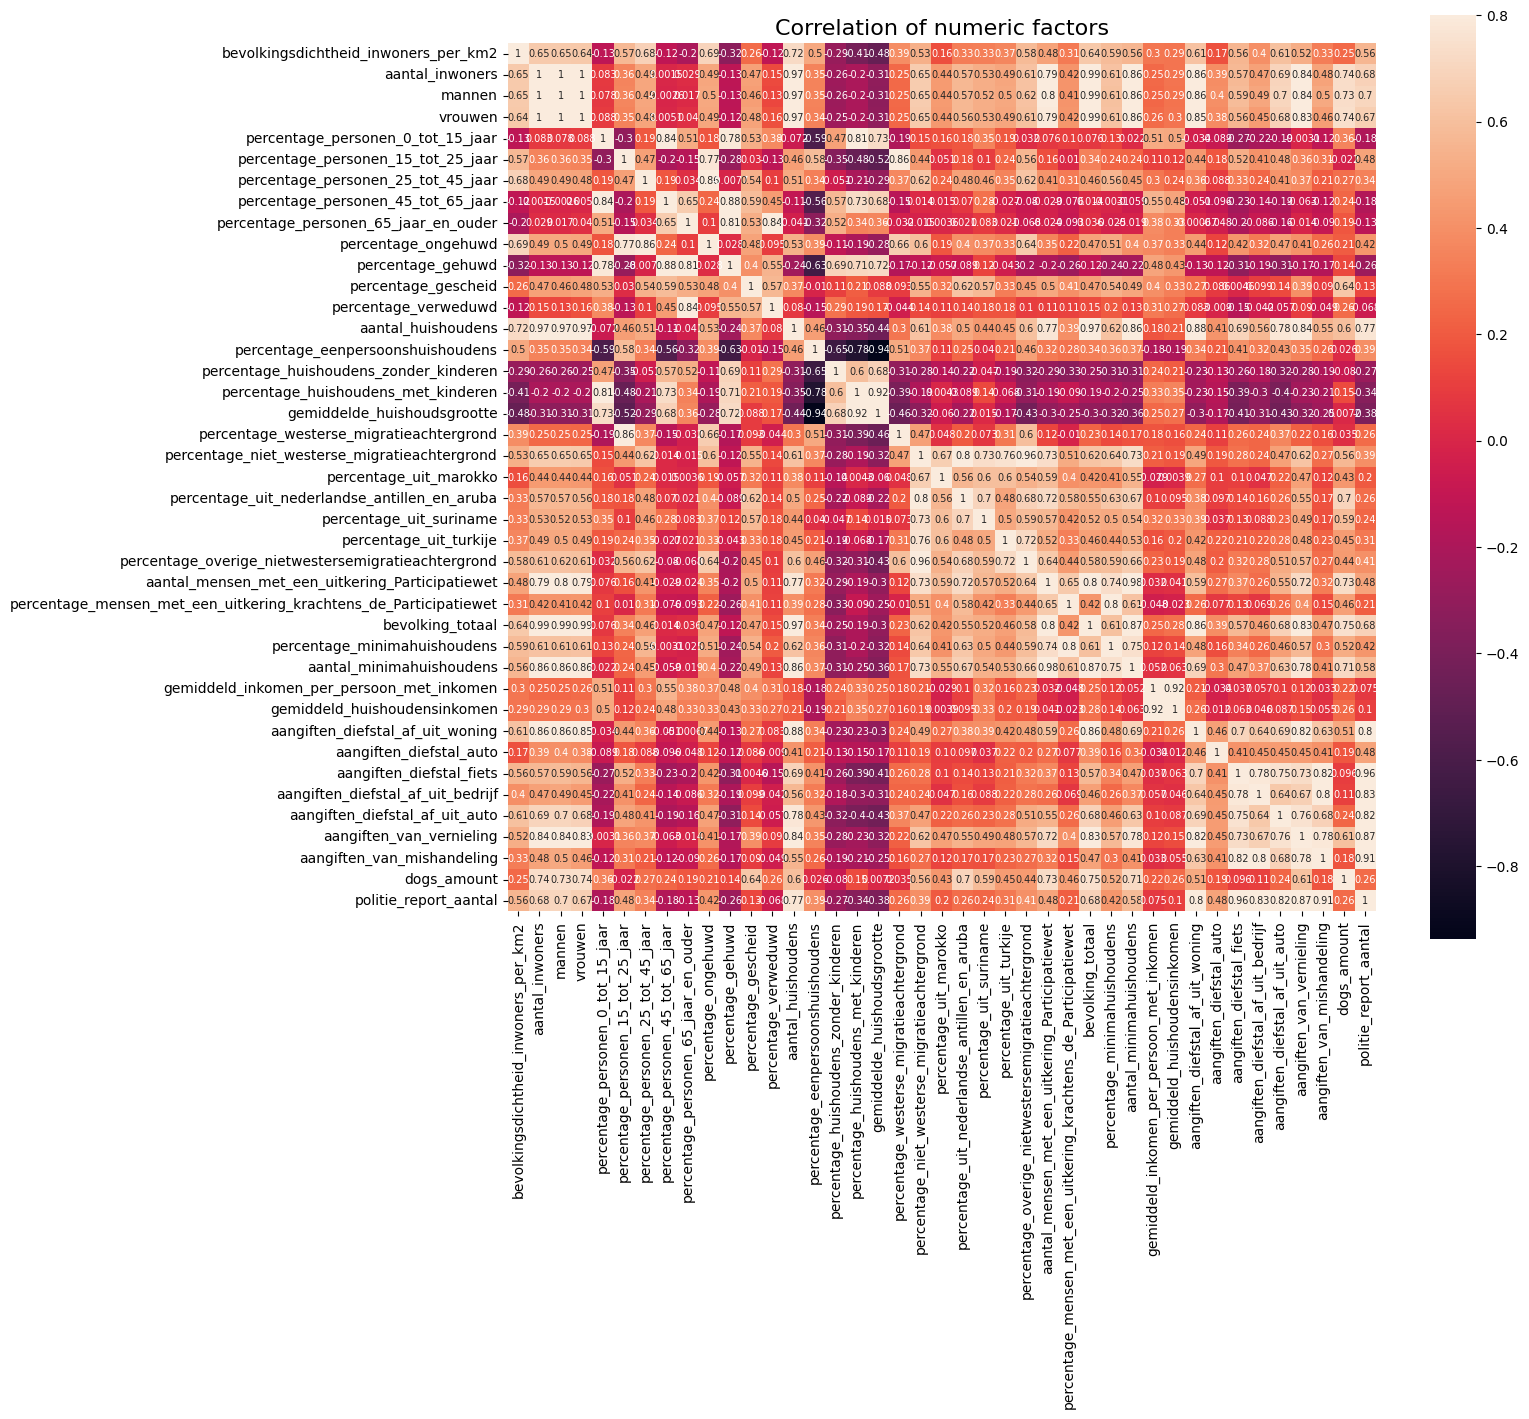
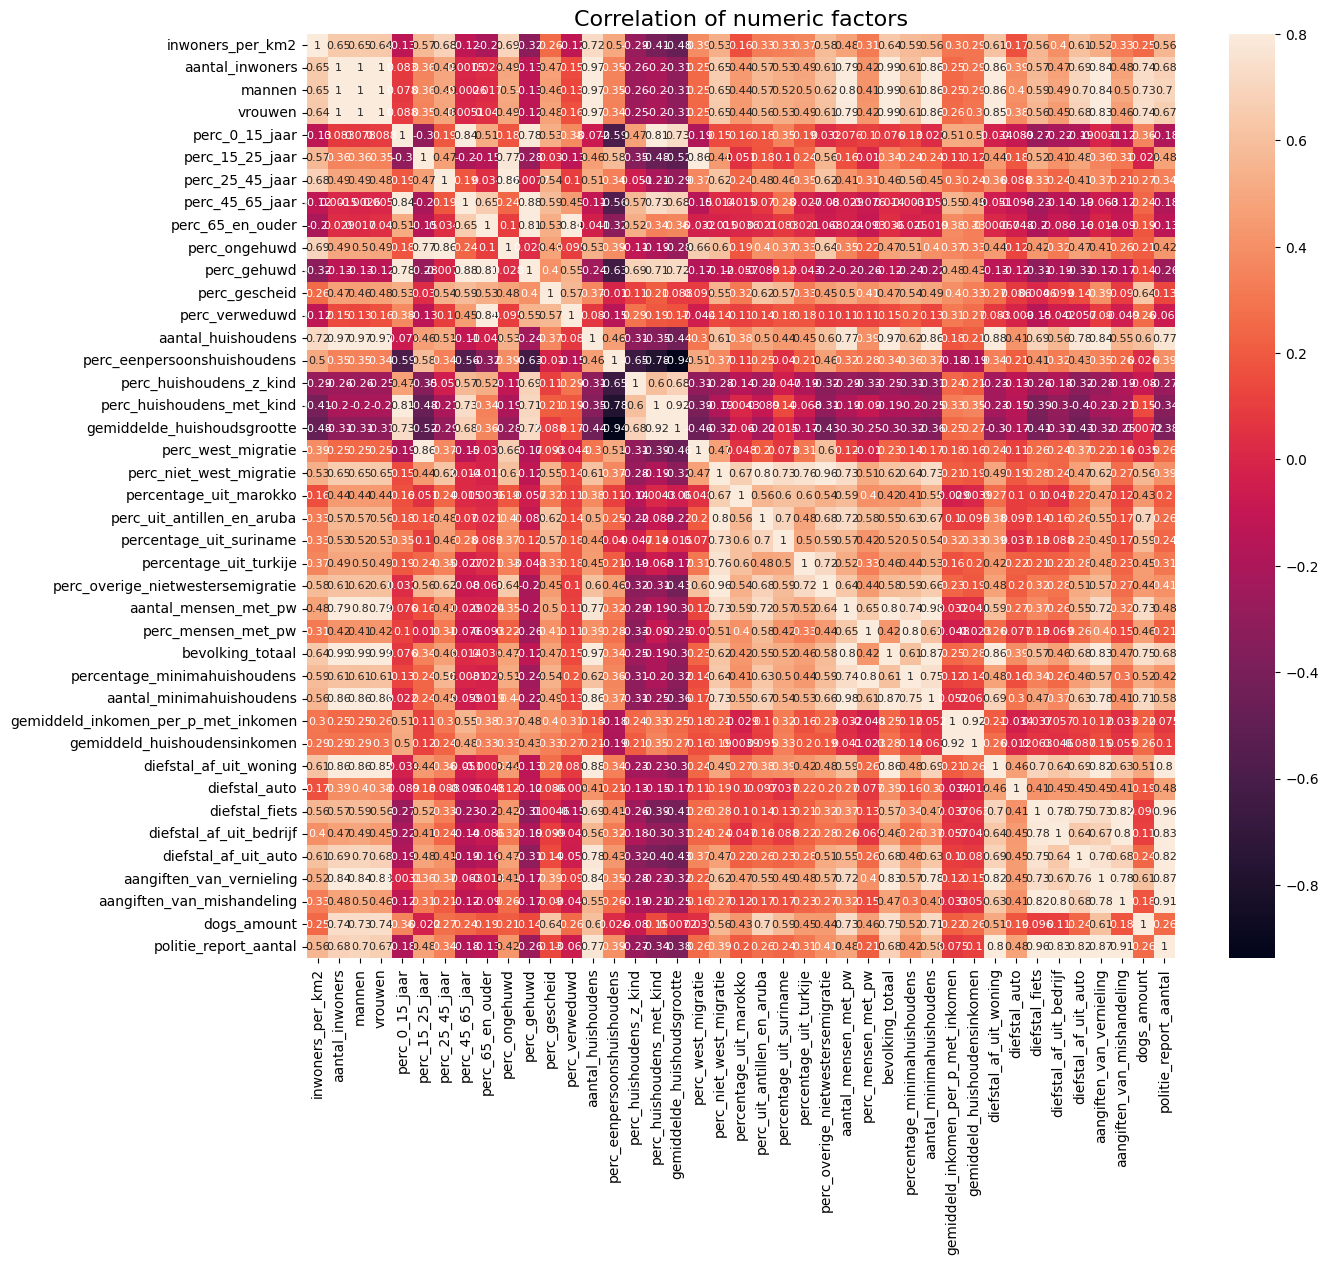
changed dogs groningen analysis

diff --git a/Groningen_dogs/dogs_eda_groningen.md b/Groningen_dogs/dogs_eda_groningen.md
@@ -21,30 +21,21 @@ print(data.columns)
 data.head()
 ```
 
-    Index(['buurtcode', 'buurtnaam', 'wijkcode',
-           'bevolkingsdichtheid_inwoners_per_km2', 'aantal_inwoners', 'mannen',
-           'vrouwen', 'percentage_personen_0_tot_15_jaar',
-           'percentage_personen_15_tot_25_jaar',
-           'percentage_personen_25_tot_45_jaar',
-           'percentage_personen_45_tot_65_jaar',
-           'percentage_personen_65_jaar_en_ouder', 'percentage_ongehuwd',
-           'percentage_gehuwd', 'percentage_gescheid', 'percentage_verweduwd',
-           'aantal_huishoudens', 'percentage_eenpersoonshuishoudens',
-           'percentage_huishoudens_zonder_kinderen',
-           'percentage_huishoudens_met_kinderen', 'gemiddelde_huishoudsgrootte',
-           'percentage_westerse_migratieachtergrond',
-           'percentage_niet_westerse_migratieachtergrond',
-           'percentage_uit_marokko',
-           'percentage_uit_nederlandse_antillen_en_aruba',
-           'percentage_uit_suriname', 'percentage_uit_turkije',
-           'percentage_overige_nietwestersemigratieachtergrond',
-           'aantal_mensen_met_een_uitkering_Participatiewet',
-           'percentage_mensen_met_een_uitkering_krachtens_de_Participatiewet',
-           'bevolking_totaal', 'percentage_minimahuishoudens',
-           'aantal_minimahuishoudens', 'gemiddeld_inkomen_per_persoon_met_inkomen',
-           'gemiddeld_huishoudensinkomen', 'aangiften_diefstal_af_uit_woning',
-           'aangiften_diefstal_auto', 'aangiften_diefstal_fiets',
-           'aangiften_diefstal_af_uit_bedrijf', 'aangiften_diefstal_af_uit_auto',
+    Index(['buurtcode', 'buurtnaam', 'wijkcode', 'inwoners_per_km2',
+           'aantal_inwoners', 'mannen', 'vrouwen', 'perc_0_15_jaar',
+           'perc_15_25_jaar', 'perc_25_45_jaar', 'perc_45_65_jaar',
+           'perc_65_en_ouder', 'perc_ongehuwd', 'perc_gehuwd', 'perc_gescheid',
+           'perc_verweduwd', 'aantal_huishoudens', 'perc_eenpersoonshuishoudens',
+           'perc_huishoudens_z_kind', 'perc_huishoudens_met_kind',
+           'gemiddelde_huishoudsgrootte', 'perc_west_migratie',
+           'perc_niet_west_migratie', 'percentage_uit_marokko',
+           'perc_uit_antillen_en_aruba', 'percentage_uit_suriname',
+           'percentage_uit_turkije', 'perc_overige_nietwestersemigratie',
+           'aantal_mensen_met_pw', 'perc_mensen_met_pw', 'bevolking_totaal',
+           'percentage_minimahuishoudens', 'aantal_minimahuishoudens',
+           'gemiddeld_inkomen_per_p_met_inkomen', 'gemiddeld_huishoudensinkomen',
+           'diefstal_af_uit_woning', 'diefstal_auto', 'diefstal_fiets',
+           'diefstal_af_uit_bedrijf', 'diefstal_af_uit_auto',
            'aangiften_van_vernieling', 'aangiften_van_mishandeling', 'dogs_amount',
            'politie_report_aantal'],
           dtype='object')
@@ -74,20 +65,20 @@ data.head()
       <th>buurtcode</th>
       <th>buurtnaam</th>
       <th>wijkcode</th>
-      <th>bevolkingsdichtheid_inwoners_per_km2</th>
+      <th>inwoners_per_km2</th>
       <th>aantal_inwoners</th>
       <th>mannen</th>
       <th>vrouwen</th>
-      <th>percentage_personen_0_tot_15_jaar</th>
-      <th>percentage_personen_15_tot_25_jaar</th>
-      <th>percentage_personen_25_tot_45_jaar</th>
+      <th>perc_0_15_jaar</th>
+      <th>perc_15_25_jaar</th>
+      <th>perc_25_45_jaar</th>
       <th>...</th>
       <th>gemiddeld_huishoudensinkomen</th>
-      <th>aangiften_diefstal_af_uit_woning</th>
-      <th>aangiften_diefstal_auto</th>
-      <th>aangiften_diefstal_fiets</th>
-      <th>aangiften_diefstal_af_uit_bedrijf</th>
-      <th>aangiften_diefstal_af_uit_auto</th>
+      <th>diefstal_af_uit_woning</th>
+      <th>diefstal_auto</th>
+      <th>diefstal_fiets</th>
+      <th>diefstal_af_uit_bedrijf</th>
+      <th>diefstal_af_uit_auto</th>
       <th>aangiften_van_vernieling</th>
       <th>aangiften_van_mishandeling</th>
       <th>dogs_amount</th>
@@ -231,8 +222,7 @@ numeric_data = data.select_dtypes(include=[np.number])
 corr_matrix = numeric_data.corr()
 f, ax = plt.subplots(figsize = (14,12))
 plt.title('Correlation of numeric factors', y = 1, size = 16)
-dogs_amount = corr_matrix[['dogs_amount']]
-sns.heatmap(corr_matrix, vmax = .8, annot_kws={'size': 7}, annot = True, square=True)
+sns.heatmap(corr_matrix, vmax = .8, annot_kws={'size': 8}, annot = True)
 ```
 
 
@@ -248,131 +238,56 @@ sns.heatmap(corr_matrix, vmax = .8, annot_kws={'size': 7}, annot = True, square=
     
 
 
+Looking at the picture of the correlation matrix (above) I can say that there are definately some correlations there, but because there are a lot of factor, I can't see anything. But we are interested in the dog's owners, so let's take a look at correlations with `dogs_amount` column of the correlation matrix
+
 
 ```python
-print(numeric_data.columns)
+dogs_amount = corr_matrix[['dogs_amount']]
+fig, ax = plt.subplots(figsize=(16, 16))
+ax = sns.heatmap(dogs_amount, vmax = .8, annot_kws={'size': 10}, annot = True, linewidths=.5)
 ```
 
-    Index(['bevolkingsdichtheid_inwoners_per_km2', 'aantal_inwoners', 'mannen',
-           'vrouwen', 'percentage_personen_0_tot_15_jaar',
-           'percentage_personen_15_tot_25_jaar',
-           'percentage_personen_25_tot_45_jaar',
-           'percentage_personen_45_tot_65_jaar',
-           'percentage_personen_65_jaar_en_ouder', 'percentage_ongehuwd',
-           'percentage_gehuwd', 'percentage_gescheid', 'percentage_verweduwd',
-           'aantal_huishoudens', 'percentage_eenpersoonshuishoudens',
-           'percentage_huishoudens_zonder_kinderen',
-           'percentage_huishoudens_met_kinderen', 'gemiddelde_huishoudsgrootte',
-           'percentage_westerse_migratieachtergrond',
-           'percentage_niet_westerse_migratieachtergrond',
-           'percentage_uit_marokko',
-           'percentage_uit_nederlandse_antillen_en_aruba',
-           'percentage_uit_suriname', 'percentage_uit_turkije',
-           'percentage_overige_nietwestersemigratieachtergrond',
-           'aantal_mensen_met_een_uitkering_Participatiewet',
-           'percentage_mensen_met_een_uitkering_krachtens_de_Participatiewet',
-           'bevolking_totaal', 'percentage_minimahuishoudens',
-           'aantal_minimahuishoudens', 'gemiddeld_inkomen_per_persoon_met_inkomen',
-           'gemiddeld_huishoudensinkomen', 'aangiften_diefstal_af_uit_woning',
-           'aangiften_diefstal_auto', 'aangiften_diefstal_fiets',
-           'aangiften_diefstal_af_uit_bedrijf', 'aangiften_diefstal_af_uit_auto',
-           'aangiften_van_vernieling', 'aangiften_van_mishandeling', 'dogs_amount',
-           'politie_report_aantal'],
-          dtype='object')
+
+    
+![png](dogs_eda_groningen_files/dogs_eda_groningen_5_0.png)
+    
+
+
+Let's get from correlation matrix only high correlated columns. 
+
+
+```python
+cor_matrix = corr_matrix.abs()
+upper_tri = cor_matrix.where(np.triu(np.ones(cor_matrix.shape),k=1).astype(np.bool))
+columns = [column for column in upper_tri.columns if any(upper_tri[column] > 0.5)]
+       
+print(columns)
+```
+
+    ['aantal_inwoners', 'mannen', 'vrouwen', 'perc_15_25_jaar', 'perc_25_45_jaar', 'perc_45_65_jaar', 'perc_65_en_ouder', 'perc_ongehuwd', 'perc_gehuwd', 'perc_gescheid', 'perc_verweduwd', 'aantal_huishoudens', 'perc_eenpersoonshuishoudens', 'perc_huishoudens_z_kind', 'perc_huishoudens_met_kind', 'gemiddelde_huishoudsgrootte', 'perc_west_migratie', 'perc_niet_west_migratie', 'percentage_uit_marokko', 'perc_uit_antillen_en_aruba', 'percentage_uit_suriname', 'percentage_uit_turkije', 'perc_overige_nietwestersemigratie', 'aantal_mensen_met_pw', 'perc_mensen_met_pw', 'bevolking_totaal', 'percentage_minimahuishoudens', 'aantal_minimahuishoudens', 'gemiddeld_inkomen_per_p_met_inkomen', 'gemiddeld_huishoudensinkomen', 'diefstal_af_uit_woning', 'diefstal_fiets', 'diefstal_af_uit_bedrijf', 'diefstal_af_uit_auto', 'aangiften_van_vernieling', 'aangiften_van_mishandeling', 'dogs_amount', 'politie_report_aantal']
+
+
+    /var/folders/1q/nw56sv790t34hlk8f_j1dtxh0000gn/T/ipykernel_53074/164323969.py:2: DeprecationWarning: `np.bool` is a deprecated alias for the builtin `bool`. To silence this warning, use `bool` by itself. Doing this will not modify any behavior and is safe. If you specifically wanted the numpy scalar type, use `np.bool_` here.
+    Deprecated in NumPy 1.20; for more details and guidance: https://numpy.org/devdocs/release/1.20.0-notes.html#deprecations
+      upper_tri = cor_matrix.where(np.triu(np.ones(cor_matrix.shape),k=1).astype(np.bool))
 
 
 
 ```python
-columns = ['dogs_amount',
-           'aantal_mensen_met_een_uitkering_Participatiewet', 
-           'bevolking_totaal',  
-           'jeugd_0_17_jarigen', 
-           'volwassenen_27_64_jaar', 
-           'senioren_65_jaar_en_ouder',
-           'woonruimten', 
-           'percentage_minimahuishoudens', 
-           'aangiften_van_vernieling']
 sns.pairplot(data = data,
                   x_vars = ['dogs_amount'],
                   y_vars = columns)
 ```
 
 
-    ---------------------------------------------------------------------------
-
-    KeyError                                  Traceback (most recent call last)
-
-    Cell In [4], line 10
-          1 columns = ['dogs_amount',
-          2            'aantal_mensen_met_een_uitkering_Participatiewet', 
-          3            'bevolking_totaal',  
-       (...)
-          8            'percentage_minimahuishoudens', 
-          9            'aangiften_van_vernieling']
-    ---> 10 sns.pairplot(data = data,
-         11                   x_vars = ['dogs_amount'],
-         12                   y_vars = columns)
 
 
-    File /Library/Frameworks/Python.framework/Versions/3.11/lib/python3.11/site-packages/seaborn/axisgrid.py:2158, in pairplot(data, hue, hue_order, palette, vars, x_vars, y_vars, kind, diag_kind, markers, height, aspect, corner, dropna, plot_kws, diag_kws, grid_kws, size)
-       2156 if kind == "scatter":
-       2157     from .relational import scatterplot  # Avoid circular import
-    -> 2158     plotter(scatterplot, **plot_kws)
-       2159 elif kind == "reg":
-       2160     from .regression import regplot  # Avoid circular import
+    <seaborn.axisgrid.PairGrid at 0x14527a550>
 
-
-    File /Library/Frameworks/Python.framework/Versions/3.11/lib/python3.11/site-packages/seaborn/axisgrid.py:1428, in PairGrid.map_offdiag(self, func, **kwargs)
-       1426             if x_var != y_var:
-       1427                 indices.append((i, j))
-    -> 1428     self._map_bivariate(func, indices, **kwargs)
-       1429 return self
-
-
-    File /Library/Frameworks/Python.framework/Versions/3.11/lib/python3.11/site-packages/seaborn/axisgrid.py:1568, in PairGrid._map_bivariate(self, func, indices, **kwargs)
-       1566     if ax is None:  # i.e. we are in corner mode
-       1567         continue
-    -> 1568     self._plot_bivariate(x_var, y_var, ax, func, **kws)
-       1569 self._add_axis_labels()
-       1571 if "hue" in signature(func).parameters:
-
-
-    File /Library/Frameworks/Python.framework/Versions/3.11/lib/python3.11/site-packages/seaborn/axisgrid.py:1594, in PairGrid._plot_bivariate(self, x_var, y_var, ax, func, **kwargs)
-       1591 if self._hue_var is not None and self._hue_var not in axes_vars:
-       1592     axes_vars.append(self._hue_var)
-    -> 1594 data = self.data[axes_vars]
-       1595 if self._dropna:
-       1596     data = data.dropna()
-
-
-    File /Library/Frameworks/Python.framework/Versions/3.11/lib/python3.11/site-packages/pandas/core/frame.py:3810, in DataFrame.__getitem__(self, key)
-       3808     if is_iterator(key):
-       3809         key = list(key)
-    -> 3810     indexer = self.columns._get_indexer_strict(key, "columns")[1]
-       3812 # take() does not accept boolean indexers
-       3813 if getattr(indexer, "dtype", None) == bool:
-
-
-    File /Library/Frameworks/Python.framework/Versions/3.11/lib/python3.11/site-packages/pandas/core/indexes/base.py:6111, in Index._get_indexer_strict(self, key, axis_name)
-       6108 else:
-       6109     keyarr, indexer, new_indexer = self._reindex_non_unique(keyarr)
-    -> 6111 self._raise_if_missing(keyarr, indexer, axis_name)
-       6113 keyarr = self.take(indexer)
-       6114 if isinstance(key, Index):
-       6115     # GH 42790 - Preserve name from an Index
-
-
-    File /Library/Frameworks/Python.framework/Versions/3.11/lib/python3.11/site-packages/pandas/core/indexes/base.py:6174, in Index._raise_if_missing(self, key, indexer, axis_name)
-       6171     raise KeyError(f"None of [{key}] are in the [{axis_name}]")
-       6173 not_found = list(ensure_index(key)[missing_mask.nonzero()[0]].unique())
-    -> 6174 raise KeyError(f"{not_found} not in index")
-
-
-    KeyError: "['jeugd_0_17_jarigen'] not in index"
 
 
 
     
-![png](dogs_eda_groningen_files/dogs_eda_groningen_5_1.png)
+![png](dogs_eda_groningen_files/dogs_eda_groningen_8_1.png)
     
 

diff --git a/Groningen_dogs/data_collecting.md b/Groningen_dogs/data_collecting.md
@@ -4,7 +4,6 @@ title:  Dogs owners dataset construction
 
 ---
 
-
 On this page I will show you where I got data, how I collected, investigated and clean it.
 
 There is a website called [Gronometer](https://groningen.buurtmonitor.nl/) where you can find a lot of open data about Groningen. This data is also available to download as datasets. I choosed some data from 2018 year available for different neighbourhoods and downloaded it to `Groningen_population_data_2018.csv` file
@@ -1489,6 +1488,37 @@ data.head()
 
 ```python
 data['politie_report_aantal'] = data['aangiften_diefstal_af_uit_woning'] + data['aangiften_diefstal_auto'] + data['aangiften_diefstal_af_uit_bedrijf'] + data['aangiften_diefstal_fiets'] + data['aangiften_diefstal_af_uit_auto'] + data['aangiften_van_mishandeling'] + data['aangiften_van_vernieling']
+```
+
+I can see that there are a lot of columns with very long names. Let's make it shorter
+
+
+```python
+data = data.rename(columns={'bevolkingsdichtheid_inwoners_per_km2': 'inwoners_per_km2'})
+data = data.rename(columns={'percentage_personen_0_tot_15_jaar': 'perc_0_15_jaar'})
+data = data.rename(columns={'percentage_personen_15_tot_25_jaar': 'perc_15_25_jaar'})
+data = data.rename(columns={'percentage_personen_25_tot_45_jaar': 'perc_25_45_jaar'})
+data = data.rename(columns={'percentage_personen_45_tot_65_jaar': 'perc_45_65_jaar'})
+data = data.rename(columns={'percentage_personen_65_jaar_en_ouder': 'perc_65_en_ouder'})
+data = data.rename(columns={'percentage_ongehuwd': 'perc_ongehuwd'})
+data = data.rename(columns={'percentage_gehuwd': 'perc_gehuwd'})
+data = data.rename(columns={'percentage_gescheid': 'perc_gescheid'})
+data = data.rename(columns={'percentage_verweduwd': 'perc_verweduwd'})
+data = data.rename(columns={'percentage_eenpersoonshuishoudens': 'perc_eenpersoonshuishoudens'})
+data = data.rename(columns={'percentage_huishoudens_zonder_kinderen': 'perc_huishoudens_z_kind'})
+data = data.rename(columns={'percentage_huishoudens_met_kinderen': 'perc_huishoudens_met_kind'})
+data = data.rename(columns={'percentage_westerse_migratieachtergrond': 'perc_west_migratie'})
+data = data.rename(columns={'percentage_niet_westerse_migratieachtergrond': 'perc_niet_west_migratie'})
+data = data.rename(columns={'percentage_uit_nederlandse_antillen_en_aruba': 'perc_uit_antillen_en_aruba'})
+data = data.rename(columns={'percentage_overige_nietwestersemigratieachtergrond': 'perc_overige_nietwestersemigratie'})
+data = data.rename(columns={'aantal_mensen_met_een_uitkering_Participatiewet': 'aantal_mensen_met_pw'})
+data = data.rename(columns={'percentage_mensen_met_een_uitkering_krachtens_de_Participatiewet': 'perc_mensen_met_pw'})
+data = data.rename(columns={'gemiddeld_inkomen_per_persoon_met_inkomen': 'gemiddeld_inkomen_per_p_met_inkomen'})
+data = data.rename(columns={'aangiften_diefstal_af_uit_woning': 'diefstal_af_uit_woning'})
+data = data.rename(columns={'aangiften_diefstal_auto': 'diefstal_auto'})
+data = data.rename(columns={'aangiften_diefstal_fiets': 'diefstal_fiets'})
+data = data.rename(columns={'aangiften_diefstal_af_uit_bedrijf': 'diefstal_af_uit_bedrijf'})
+data = data.rename(columns={'aangiften_diefstal_af_uit_auto': 'diefstal_af_uit_auto'})
 ```
 
 
